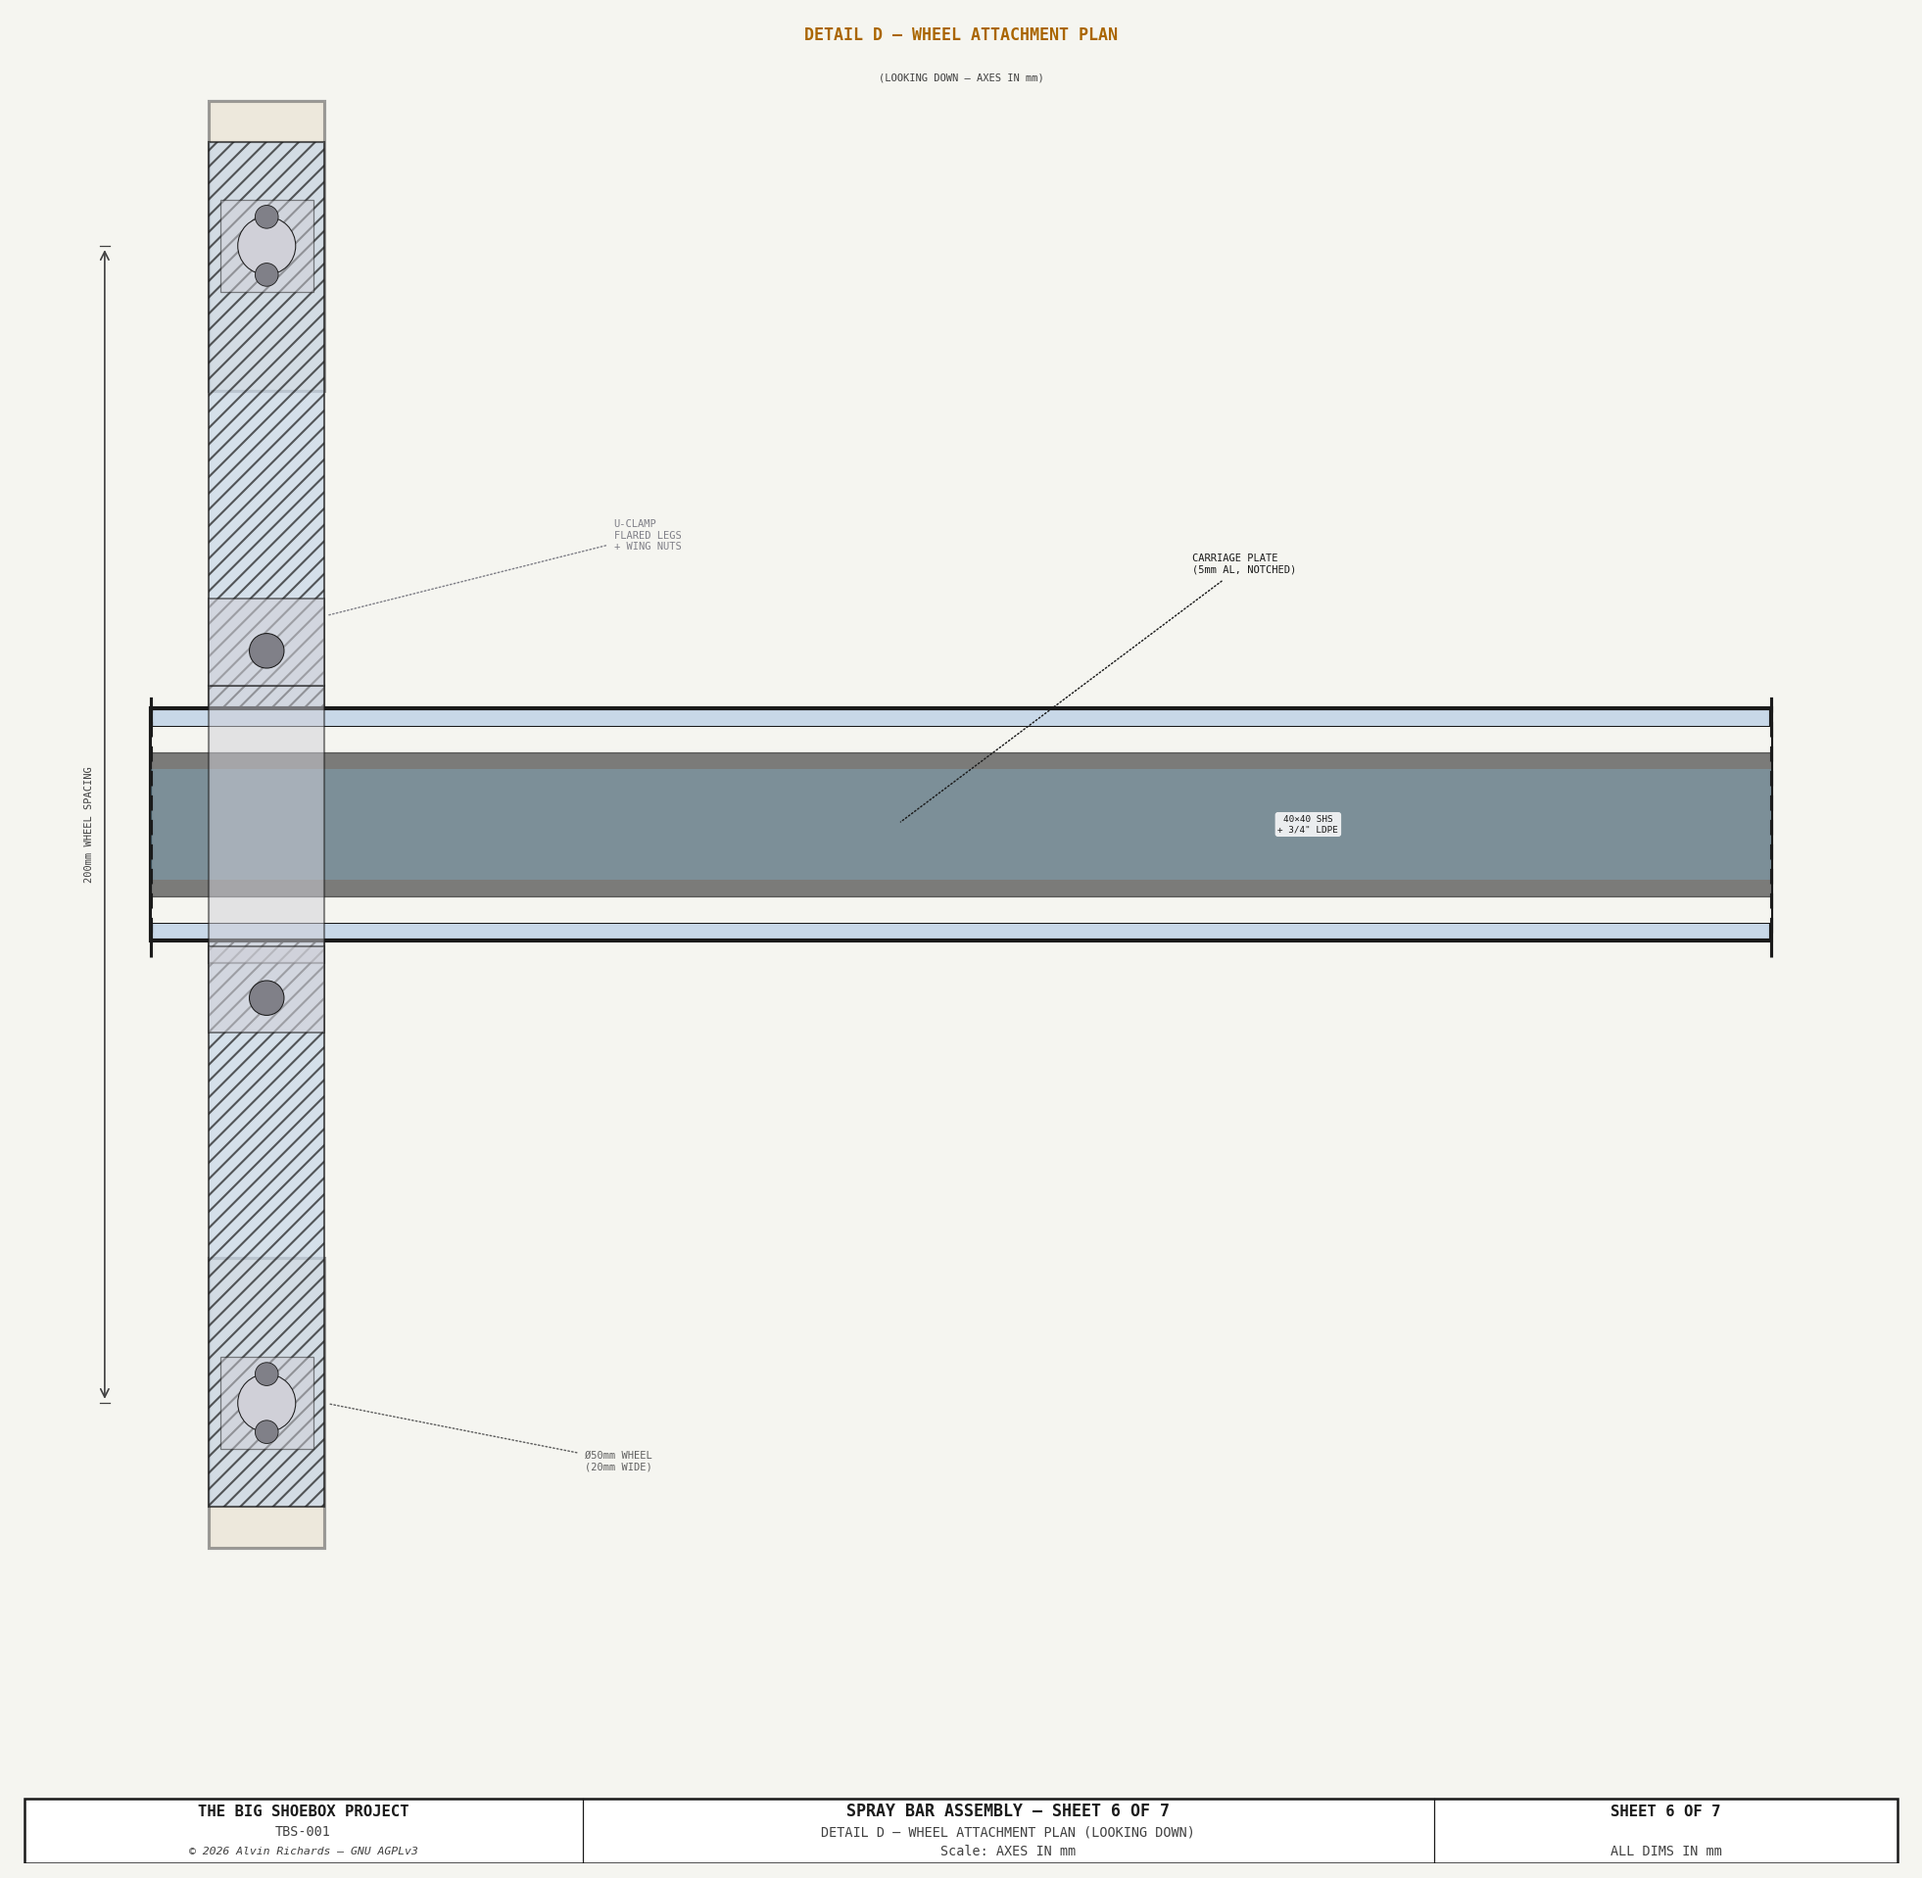
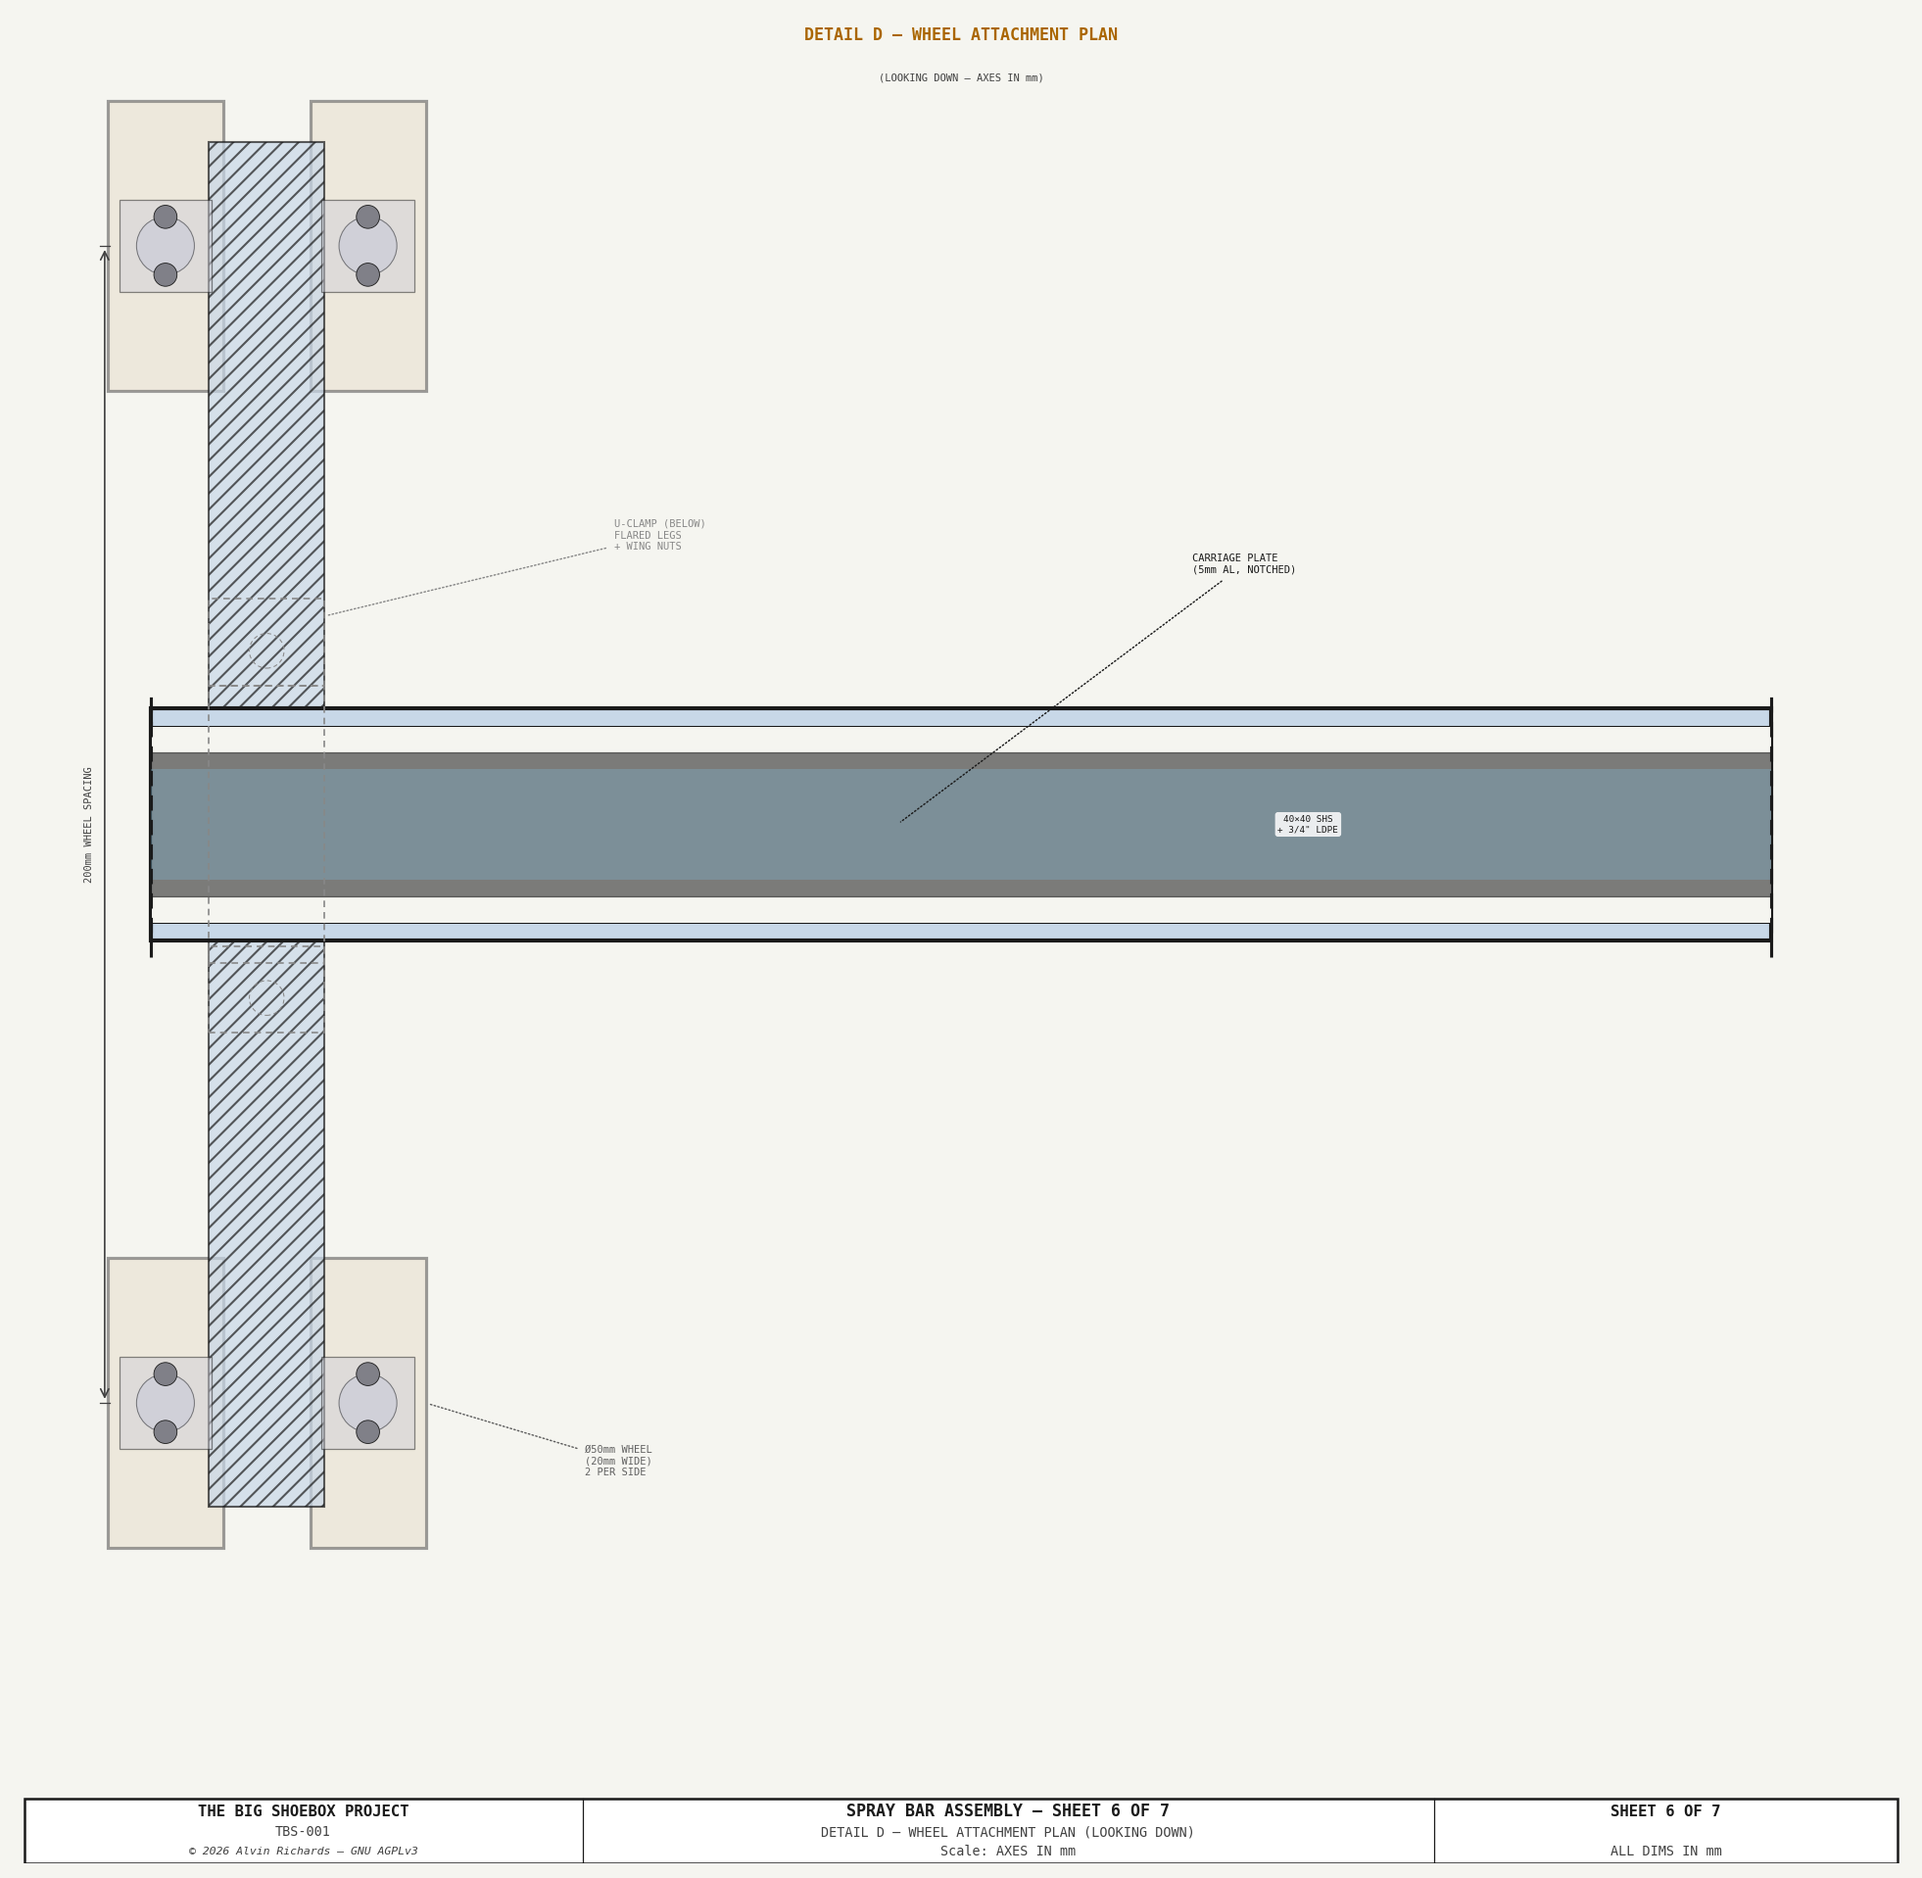
Sheet 6: show 4 wheels in pairs, beam U-clamp as ghost outline
Each carriage now has 2 pairs of wheels (4 per carriage, 8 total),
spaced 35mm apart in X at each Yd position. Beam U-clamp drawn as
dashed ghost since it is below the carriage plate in plan view.
Parts lists and costs updated for doubled wheel count.

diff --git a/generate_spray_bar_diagram.py b/generate_spray_bar_diagram.py
@@ -1484,58 +1484,64 @@ def draw_sheet6():
                    fc=C_ALUM_FILL, ec=C_FRAME, lw=1.0,
                    hatch="///", alpha=0.7, zorder=4))
 
-    # ── U-clamp top plate ────────────────────────────────────────────────
+    # ── Beam U-clamp — ghost (underneath plate) ────────────────────────
     uc_w_yd_top = BEAM_W + 2 * UC_T + 2 * UC_GAP
+    ghost_ls = (0, (4, 3))
+    ghost_c = "#888888"
     ax_d.add_patch(Rectangle((CARRIAGE_OFFSET_X - arm_w_x / 2, -uc_w_yd_top / 2),
                    arm_w_x, uc_w_yd_top,
-                   fc=C_UCLAMP, ec=C_FRAME, lw=1.0, alpha=0.5, zorder=6))
+                   fc="none", ec=ghost_c, lw=0.8, ls=ghost_ls, zorder=6))
     for side in [-1, 1]:
         foot_yd = side * (BEAM_W / 2 + UC_GAP + UC_T)
         if side < 0:
             foot_yd -= UC_FLARE
         ax_d.add_patch(Rectangle((CARRIAGE_OFFSET_X - arm_w_x / 2, foot_yd),
                        arm_w_x, UC_FLARE + UC_T,
-                       fc=C_UCLAMP, ec=C_FRAME, lw=0.8, alpha=0.6, zorder=6))
+                       fc="none", ec=ghost_c, lw=0.8, ls=ghost_ls, zorder=6))
 
     for side in [-1, 1]:
         bolt_yd = side * (BEAM_W / 2 + UC_GAP + UC_T + UC_FLARE / 2)
         ax_d.add_patch(Circle((CARRIAGE_OFFSET_X, bolt_yd), 3,
-                     fc=C_BOLT, ec=C_FRAME, lw=0.5, zorder=8))
+                     fc="none", ec=ghost_c, lw=0.5, ls=ghost_ls, zorder=8))
 
     leader(ax_d, CARRIAGE_OFFSET_X + arm_w_x / 2,
            BEAM_W / 2 + UC_GAP + UC_T + UC_FLARE,
            BEAM_W - 100, BEAM_W / 2 + 30,
-           "U-CLAMP\nFLARED LEGS\n+ WING NUTS",
-           fs=5, color=C_BOLT, font=FONT, zorder=20)
+           "U-CLAMP (BELOW)\nFLARED LEGS\n+ WING NUTS",
+           fs=5, color=ghost_c, font=FONT, zorder=20)
+
+    # ── Wheels — 2 pairs (2 per Yd position, spaced in X) ───────────────
+    WHEEL_PAIR_GAP = 35
+    for w_sign in [-1, 1]:
+        w_yd_ctr = w_sign * WHEEL_SPACING_YD / 2
+        for wx_off in [-WHEEL_PAIR_GAP / 2, WHEEL_PAIR_GAP / 2]:
+            wx = CARRIAGE_OFFSET_X + wx_off
+            ax_d.add_patch(Rectangle((wx - WHEEL_WIDTH / 2,
+                                      w_yd_ctr - WHEEL_DIA / 2),
+                           WHEEL_WIDTH, WHEEL_DIA,
+                           fc=C_NYLON, ec=C_WHEEL, lw=1.5, alpha=0.6, zorder=3))
+            ax_d.add_patch(Circle((wx, w_yd_ctr), 5,
+                         fc="#D0D0D8", ec=C_FRAME, lw=0.5, zorder=7))
 
     # ── Axle retention U-clamps (plan view) ────────────────────────────
     auc_w_plan = 16
-    auc_t_plan = 2
     for w_sign in [-1, 1]:
         w_yd_ctr = w_sign * WHEEL_SPACING_YD / 2
-        ax_d.add_patch(Rectangle((CARRIAGE_OFFSET_X - auc_w_plan / 2,
-                                  w_yd_ctr - auc_w_plan / 2),
-                       auc_w_plan, auc_w_plan,
-                       fc=C_UCLAMP, ec=C_FRAME, lw=0.6, alpha=0.5, zorder=7))
-        for bolt_off in [-auc_w_plan / 2 + 3, auc_w_plan / 2 - 3]:
-            ax_d.add_patch(Circle((CARRIAGE_OFFSET_X, w_yd_ctr + bolt_off), 2,
-                         fc=C_BOLT, ec=C_FRAME, lw=0.4, zorder=8))
-
-    # ── Wheels ───────────────────────────────────────────────────────────
-    for w_sign in [-1, 1]:
-        w_yd_ctr = w_sign * WHEEL_SPACING_YD / 2
-        ax_d.add_patch(Rectangle((CARRIAGE_OFFSET_X - WHEEL_WIDTH / 2,
-                                  w_yd_ctr - WHEEL_DIA / 2),
-                       WHEEL_WIDTH, WHEEL_DIA,
-                       fc=C_NYLON, ec=C_WHEEL, lw=1.5, alpha=0.6, zorder=3))
-        ax_d.add_patch(Circle((CARRIAGE_OFFSET_X, w_yd_ctr), 5,
-                     fc="#D0D0D8", ec=C_FRAME, lw=0.5, zorder=7))
+        for wx_off in [-WHEEL_PAIR_GAP / 2, WHEEL_PAIR_GAP / 2]:
+            wx = CARRIAGE_OFFSET_X + wx_off
+            ax_d.add_patch(Rectangle((wx - auc_w_plan / 2,
+                                      w_yd_ctr - auc_w_plan / 2),
+                           auc_w_plan, auc_w_plan,
+                           fc=C_UCLAMP, ec=C_FRAME, lw=0.6, alpha=0.5, zorder=7))
+            for bolt_off in [-auc_w_plan / 2 + 3, auc_w_plan / 2 - 3]:
+                ax_d.add_patch(Circle((wx, w_yd_ctr + bolt_off), 2,
+                             fc=C_BOLT, ec=C_FRAME, lw=0.4, zorder=8))
 
     # ── Labels ───────────────────────────────────────────────────────────
-    leader(ax_d, CARRIAGE_OFFSET_X + WHEEL_WIDTH / 2,
+    leader(ax_d, CARRIAGE_OFFSET_X + WHEEL_PAIR_GAP / 2 + WHEEL_WIDTH / 2,
            -WHEEL_SPACING_YD / 2,
            D_X_HI - 225, -WHEEL_SPACING_YD / 2 - 10,
-           f"Ø{WHEEL_DIA}mm WHEEL\n({WHEEL_WIDTH}mm WIDE)",
+           f"Ø{WHEEL_DIA}mm WHEEL\n({WHEEL_WIDTH}mm WIDE)\n2 PER SIDE",
            fs=5, color=C_WHEEL, font=FONT, zorder=20)
 
     leader(ax_d, -arm_w_x / 2 - 1, 0,

diff --git a/master-shopping-list.md b/master-shopping-list.md
@@ -208,17 +208,17 @@ Items are grouped by build area. Source documents are cross-referenced in each s
 | [6061-T6 aluminum plate 3/16" (5mm)](https://www.onlinemetals.com/en/buy/aluminum/6061-t6-aluminum-sheet-plate) | Carriage plates (5mm, notched) + spacer blocks (8.5mm) + end caps — ~300×500mm sheet | 1 | Online Metals | $12–$20 |
 | [30×30mm aluminum solid bar](https://www.onlinemetals.com/en/buy/aluminum/6061-t6-aluminum-square-bar) | Internal splice sleeve, 150mm long | 1 | Online Metals | $8–$12 |
 | [SS U-bolt clamp, 40mm](https://www.amazon.com/s?k=stainless+steel+U+bolt+clamp+40mm) | Beam-to-carriage clamping (wraps over 40mm SHS), with wing nuts for tool-free operation | 4 | Amazon / McMaster | $12–$18 |
-| [Nylon fixed wheel, 50mm×20mm, 10mm bore](https://www.amazon.com/s?k=50mm+nylon+wheel+10mm+bore+fixed) | Carriage wheels, flat tread, ≥25 kg rated | 4 | Amazon / McMaster | $12–$20 |
+| [Nylon fixed wheel, 50mm×20mm, 10mm bore](https://www.amazon.com/s?k=50mm+nylon+wheel+10mm+bore+fixed) | Carriage wheels, flat tread, ≥25 kg rated (2 pairs per carriage) | 8 | Amazon / McMaster | $24–$40 |
 | [Telescoping aluminum pool pole](https://www.amazon.com/s?k=telescoping+aluminum+pool+pole+8+ft) | 4–8 ft push handle | 1 | Amazon / Home Depot | $15 |
 | [½" reinforced braided PVC hose, 15 ft](https://www.amazon.com/s?k=1%2F2+inch+reinforced+braided+PVC+hose+15+ft) | Flexible connection BV-02 to center feed barbed fitting | 1 | Amazon | $15 |
-| [M5×16 SS hex bolt + nyloc nut + washers](https://www.mcmaster.com/91292A126) | Axle U-clamp through-bolts (2 per clamp, 4 clamps) | 8 sets | McMaster-Carr | $8 |
+| [M5×16 SS hex bolt + nyloc nut + washers](https://www.mcmaster.com/91292A126) | Axle U-clamp through-bolts (2 per clamp, 8 clamps) | 16 sets | McMaster-Carr | $12 |
 | [20mm ball joint, SS ball + zinc socket](https://www.amazon.com/s?k=20mm+ball+joint+stud+zinc+socket) | Multi-axis arm articulation on beam top face. Ø36mm socket, 50mm flange, M12 stud | 1 | Amazon / McMaster | $8–$15 |
 | [M8 SS U-bolt, 40mm pipe size + nyloc nuts](https://www.amazon.com/s?k=M8+stainless+U+bolt+40mm) | Clamps ball joint socket housing to beam top face | 1 set | McMaster-Carr | $3–$5 |
 | [25mm OD × 2mm wall 6061-T6 AL round tube](https://www.onlinemetals.com/en/buy/aluminum/6061-t6-aluminum-round-tube) | Vertical arm tube, ~500mm long, clamped to ball joint stud | 1 | Online Metals | $5–$8 |
 | M6×25 SS hex bolt + nut | Pinch bolt — clamps arm tube onto ball joint stud | 1 | McMaster-Carr | $1 |
 | [½" barb × ½" hose barb, brass](https://www.amazon.com/s?k=1%2F2+hose+barb+brass) | Flex hose to center feed adapter | 1 | Amazon | $4 |
-| [10mm × 60mm SS clevis pin](https://www.mcmaster.com) | Wheel axle pins | 4 | McMaster-Carr | $4–$8 |
-| [SS U-clamp / saddle clamp, 10mm](https://www.mcmaster.com) | Axle retention — bolted to carriage plate underside, wraps under axle pin | 4 | McMaster-Carr | $6–$10 |
+| [10mm × 60mm SS clevis pin](https://www.mcmaster.com) | Wheel axle pins | 8 | McMaster-Carr | $8–$16 |
+| [SS U-clamp / saddle clamp, 10mm](https://www.mcmaster.com) | Axle retention — bolted to carriage plate underside, wraps under axle pin | 8 | McMaster-Carr | $12–$20 |
 | SS spring clip / pole attachment | Pole-to-arm quick-release clip | 1 | Amazon | $6 |
 | [Cable ties, 200mm, nylon](https://www.amazon.com/s?k=cable+ties+200mm+nylon) | Secure flex hose to arm tube | 1 pack | Amazon | $5 |
 **Spray bar subtotal: ~$200–$270**

diff --git a/processing-tray-and-spray-bar.md b/processing-tray-and-spray-bar.md
@@ -147,9 +147,9 @@ irrigation nozzles spaced evenly along the beam bottom face.
 | Flat-fan spray nozzles | Barbed inlet, irrigation-type, 180° fan pattern | 6 | Spray distribution through beam bottom wall |
 | Barbed center feed fitting | 3/4" barb × 1/2" barb adapter, through beam top wall | 1 | Center feed — connects flex hose to poly pipe |
 | Retainer clips | SS or nylon, for 3/4" LDPE fold-back closure | 2 | Seal both ends of poly pipe (fold-back termination) |
-| Nylon wheels | 50mm OD × 20mm wide, 10mm bore, flat tread | 4 | Roll on tray floor beneath walkway grating |
-| Axle pins | 10mm SS clevis pin | 4 | Wheel spindles |
-| Axle retention U-clamps | SS, 2mm strap, wraps under 10mm axle pin | 4 | Bolted to carriage plate underside, retains axle in position |
+| Nylon wheels | 50mm OD × 20mm wide, 10mm bore, flat tread | 8 | Roll on tray floor beneath walkway grating (2 pairs per carriage) |
+| Axle pins | 10mm SS clevis pin | 8 | Wheel spindles |
+| Axle retention U-clamps | SS, 2mm strap, wraps under 10mm axle pin | 8 | Bolted to carriage plate underside, retains axle in position |
 | Carriage plates | 6061-T6 AL plate 5mm, notched for U-clamp | 2 | Connect wheel forks to beam via spacer + U-clamp |
 | Spacer blocks | 6061-T6 AL, 8.5mm thick, under U-clamp feet | 4 | Raise U-clamp seat from plate top (Z=34) to beam center height (Z=42.5) |
 | U-clamps | SS, under-slung, flared feet + wing nuts — cradles 40mm SHS from below | 2 | Attach beam to carriage plate, tool-free adjustment |
@@ -539,12 +539,12 @@ tray drainage plan and sump cross-section).
 | Flat-fan irrigation spray nozzles, barbed | 180° fan pattern, barbed inlet | 6 | $18 |
 | 3/4" barb × 1/2" barb adapter | Center feed through beam top wall | 1 | $4 |
 | SS/nylon retainer clips for 3/4" LDPE | Fold-back end closures | 2 | $4 |
-| Nylon fixed wheel, 50mm × 20mm, 10mm bore | Flat tread, ≥25 kg rated | 4 | $12–$20 |
+| Nylon fixed wheel, 50mm × 20mm, 10mm bore | Flat tread, ≥25 kg rated (2 pairs per carriage) | 8 | $24–$40 |
 | 1/2" barb × 1/2" hose barb, brass | Flex hose to center feed adapter | 1 | $4 |
 | Telescoping aluminum pool pole, 4–8 ft | Standard pool skimmer handle | 1 | $15 |
 | 1/2" reinforced braided PVC hose, 15 ft | BV-02 to beam feed (4 m coiled) | 1 | $15 |
-| 10mm clevis pins | Wheel axle pins | 4 | $5 |
-| SS U-clamp, 2mm strap (10mm axle) | Axle retention, bolted to plate underside | 4 | $8 |
+| 10mm clevis pins | Wheel axle pins | 8 | $10 |
+| SS U-clamp, 2mm strap (10mm axle) | Axle retention, bolted to plate underside | 8 | $16 |
 | M6×20 SS bolts + nyloc nuts | Carriage plate, axle U-clamp, splice fasteners | 16 | $7 |
 | M8 SS U-bolt + nyloc nuts | Ball joint to beam clamp | 1 | $5 |
 | Ø20mm ball joint, zinc socket, M12 stud | Multi-axis arm articulation | 1 | $12 |
@@ -552,15 +552,15 @@ tray drainage plan and sump cross-section).
 | 6061-T6 AL round tube 25mm OD × 2mm wall, 500mm | Arm tube | 1 | $6 |
 | M6 SS hex bolt + nut | Pinch bolt for arm tube | 1 | $1 |
 | Nylon zip ties, 200mm | Hose to arm tube | 6 | $1 |
-| **Spray bar subtotal** | | | **$191–$233** |
+| **Spray bar subtotal** | | | **$216–$268** |
 
 ### 6.3 Combined Total
 
 | Subsystem | Cost Range |
 |-----------|-----------|
 | Processing tray | $1,300–$2,015 |
-| Spray bar assembly | $191–$233 |
-| **Total** | **$1,491–$2,248** |
+| Spray bar assembly | $216–$268 |
+| **Total** | **$1,516–$2,283** |
 
 ---
 
